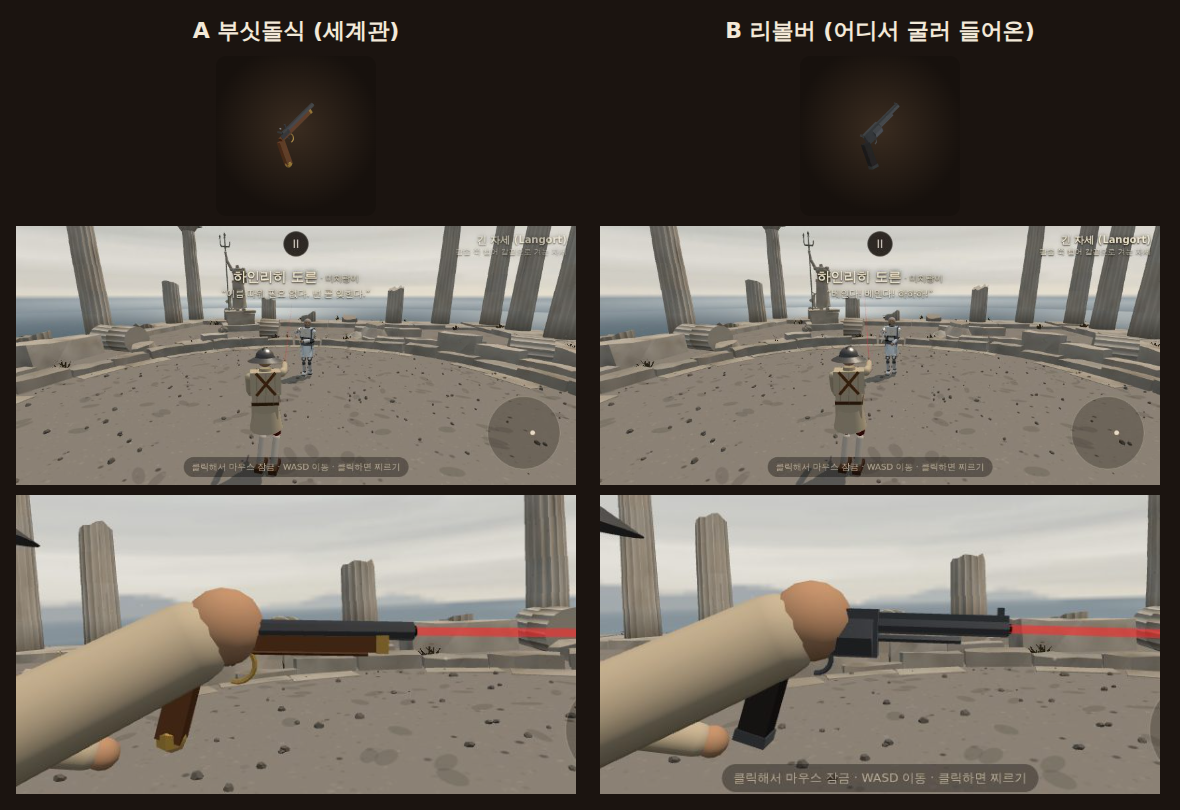
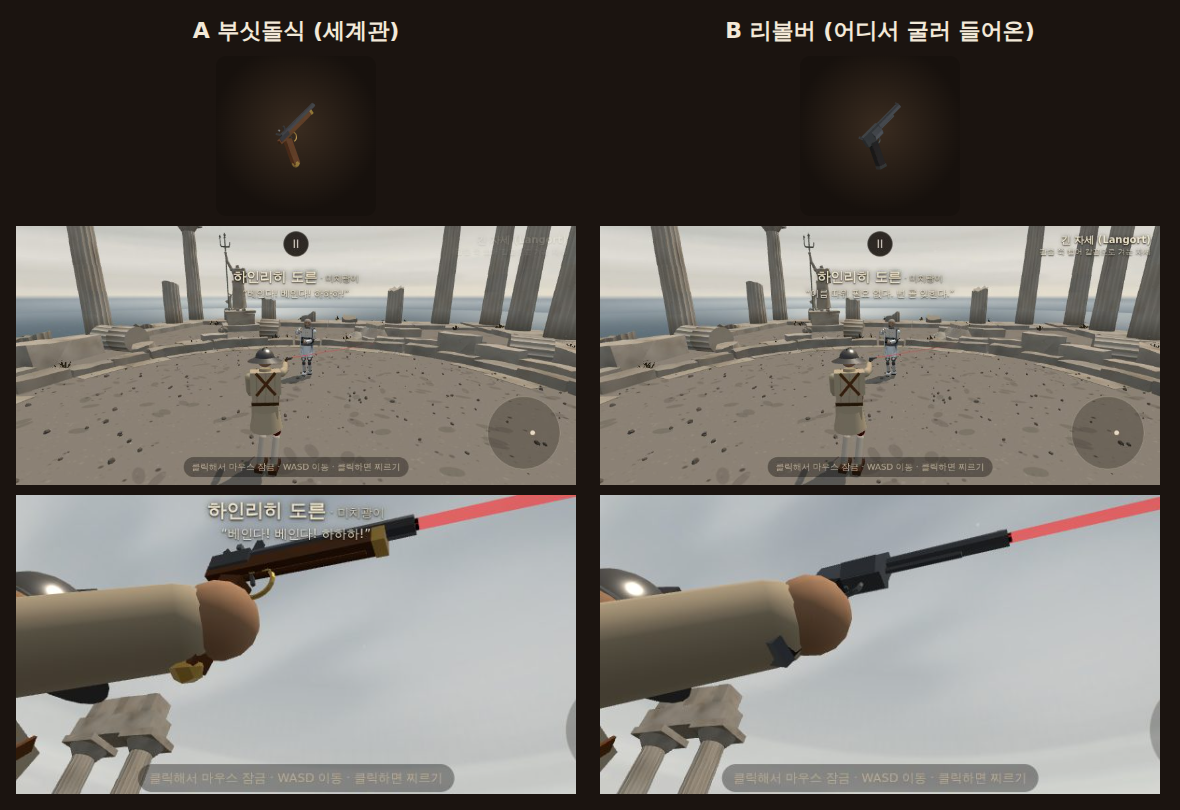
Revolver grip (owner: "hold the grip, barrel fully above the hand"): the fist holds the middle of the grip and the frame, cylinder and barrel sit 8 cm above it
- weapon_looks.js: PISTOL_GRIP centred on the hand, PISTOL_BORE_X -0.08; everything but the grip drawn on the bore axis
- weapons.js: body collider moved up to the bore axis (pose.x), muzzleX; twistScale 0.42 -> 0.25 (idle sway 1.6 deg)
- gun.js: muzzle() at (muzzleX, 0.20 m) for shots, laser and sounds; recoilUp 0.55 -> 0.2 N·s (a high bore flips the muzzle by itself; ~18 deg)
- fights12, hybrid fights12, live_battery, weapon_smoke unchanged; gun_dummy table unchanged; card and comparison images re-rendered

Claude-Session: https://claude.ai/code/session_013j34LYEUYoaeS5xUme2DTq

diff --git a/src/weapon_looks.js b/src/weapon_looks.js
@@ -1341,8 +1341,9 @@ export function breakWeaponLook(group, cutY, { material = 'steel' } = {}) {
 }
 
 // ═════════════════════════════════════════════════════════════
-//  권총 (??? 등급). 물리는 그대로다: 칼 축(+y)이 총신·발사 방향이고 총구는 손(원점)에서 0.20 m(bladePoint(1)).
-//  겉모습만 권총답게 — 손잡이가 총신에서 약 105° 꺾여 아래로 내려오고(주먹은 손잡이 윗부분을 쥔다), 방아쇠울·공이치기가 보인다.
+//  권총 (??? 등급). 칼 축(+y)이 발사 방향이다. 주먹(칼 원점)은 손잡이 가운데를 쥐고, 총신·약실·틀은 주먹 위로 완전히 올라온다
+//  (사장님: "손잡이를 잡고 총신은 손 완전히 위로") — 총신 축은 칼 축과 나란히 PISTOL_BORE_X 만큼 위(−x). 총구는 (PISTOL_BORE_X, 0.20 m):
+//  gun.js 가 발사·레이저를 여기서 낸다. 손잡이는 총신에서 105° 꺾여 아래로 내려오고, 방아쇠울·공이치기가 보인다.
 //  칼을 겨누는 자세에서 칼 몸체 −x 쪽이 위다(게임 화면으로 확인) → 가늠쇠·공이치기는 −x, 손잡이·방아쇠울은 +x.
 //  두 풍 (docs/handoff/pistol_look_v1.png) — 사장님 선택: B 리볼버. A 는 보관:
 //   'flintlock' — 세계관에 맞는 부싯돌식: 나무 몸통이 총신 밑을 받치고, 휜 나무 손잡이 끝에 놋쇠 마개, 긴 놋쇠 방아쇠울, 부싯돌 치기쇠
@@ -1350,17 +1351,24 @@ export function breakWeaponLook(group, cutY, { material = 'steel' } = {}) {
 //  로우폴리·평면 음영(설계 언어 3D 기본 모드), 난수 없음.
 // ═════════════════════════════════════════════════════════════
 // 손잡이 치수 — 물리(weapons.js pistol buildParts 의 손잡이 콜라이더·무게)와 그림이 같이 쓴다: 칼 몸체 (x, y) = from 에서
-//  총신(+y)과 deg 만큼 꺾인 방향으로 len 만큼 (끝에 마개)
-export const PISTOL_GRIP = { from: [0.018, -0.028], deg: 105, len: 0.105 };
+//  총신(+y)과 deg 만큼 꺾인 방향으로 len 만큼 (끝에 마개). 가운데가 주먹(원점)이다
+const _ga = (105 * Math.PI) / 180;
+export const PISTOL_GRIP = { deg: 105, len: 0.105, from: [(-Math.sin(_ga) * 0.105) / 2, (-Math.cos(_ga) * 0.105) / 2] };
+// 총신 축이 칼 축에서 떨어진 거리 (−x = 위, m): 약실 밑이 주먹 위로 올라오게
+export const PISTOL_BORE_X = -0.08;
 export const PISTOL_STYLE = { value: 'revolver' }; // 사장님이 고른 풍: B 현대식 리볼버 (A 부싯돌식은 보관 — 시안 비교 도구는 globalThis.__pistolStyle 로 바꿔 본다)
 export function drawPistol(group, style = globalThis.__pistolStyle ?? PISTOL_STYLE.value) {
   const flat = (color, o = {}) => new THREE.MeshStandardMaterial({ color, roughness: 0.6, metalness: 0, flatShading: true, ...o });
-  const add = (geo, mat, pos, rot) => {
+  // 손잡이 말고는 모두 총신 축 기준으로 그린다 (top 을 PISTOL_BORE_X 만큼 위로 올려 둔다)
+  const top = new THREE.Group();
+  top.position.x = PISTOL_BORE_X;
+  group.add(top);
+  const add = (geo, mat, pos, rot, parent = top) => {
     const m = new THREE.Mesh(geo, mat);
     m.position.set(...pos);
     if (rot) m.rotation.set(...rot);
     m.castShadow = true;
-    group.add(m);
+    parent.add(m);
     return m;
   };
   const UP = -1; // 위쪽 = −x
@@ -1369,7 +1377,7 @@ export function drawPistol(group, style = globalThis.__pistolStyle ?? PISTOL_STY
   const grip = (len, w, t, mat, deg, from) => {
     const a = (deg * Math.PI) / 180; // 총신(+y)과 이루는 각
     const dx = Math.sin(a), dy = Math.cos(a);
-    const g = add(new THREE.BoxGeometry(len, w, t), mat, [from[0] + (dx * len) / 2, from[1] + (dy * len) / 2, 0], [0, 0, Math.atan2(dy, dx)]);
+    const g = add(new THREE.BoxGeometry(len, w, t), mat, [from[0] + (dx * len) / 2, from[1] + (dy * len) / 2, 0], [0, 0, Math.atan2(dy, dx)], group);
     return { g, end: [from[0] + dx * len, from[1] + dy * len], dx, dy };
   };
   if (style === 'revolver') {
@@ -1386,11 +1394,11 @@ export function drawPistol(group, style = globalThis.__pistolStyle ?? PISTOL_STY
     add(new THREE.BoxGeometry(0.048, 0.09, 0.02), steel, [0.008, 0.028, 0]);
     // 공이치기 (뒤 위, 뒤로 젖힘) · 방아쇠울 · 방아쇠
     add(new THREE.BoxGeometry(0.02, 0.009, 0.007), steel, [UP * 0.017, -0.02, 0], [0, 0, 0.6]);
-    add(new THREE.TorusGeometry(0.015, 0.0028, 5, 10, Math.PI * 1.25), steel, [0.036, 0.01, 0], [0, 0, -Math.PI * 0.05]);
-    add(new THREE.BoxGeometry(0.014, 0.004, 0.004), steel, [0.03, 0.006, 0], [0, 0, 0.25]);
-    // 손잡이 (검은 고무, 110° — 리볼버는 더 뒤로 젖힌다)
+    add(new THREE.TorusGeometry(0.015, 0.0028, 5, 10, Math.PI * 1.25), steel, [0.036, 0.034, 0], [0, 0, -Math.PI * 0.05]);
+    add(new THREE.BoxGeometry(0.014, 0.004, 0.004), steel, [0.03, 0.03, 0], [0, 0, 0.25]);
+    // 손잡이 (검은 고무) — 주먹이 가운데를 쥔다
     const g = grip(PISTOL_GRIP.len, 0.03, 0.026, rubber, PISTOL_GRIP.deg, PISTOL_GRIP.from); // 손잡이 콜라이더와 같은 각·길이
-    add(new THREE.BoxGeometry(0.012, 0.034, 0.028), steel, [g.end[0], g.end[1], 0], [0, 0, Math.atan2(g.dy, g.dx)]); // 밑마개
+    add(new THREE.BoxGeometry(0.012, 0.034, 0.028), steel, [g.end[0], g.end[1], 0], [0, 0, Math.atan2(g.dy, g.dx)], group); // 밑마개
   } else {
     const iron = flat(0x3a3d44, { roughness: 0.5, metalness: 0.45, envMap: weaponEnv(), envMapIntensity: 0.7 });
     const wood = flat(0x6b4226, { roughness: 0.85 });
@@ -1408,10 +1416,10 @@ export function drawPistol(group, style = globalThis.__pistolStyle ?? PISTOL_STY
     add(new THREE.BoxGeometry(0.022, 0.008, 0.006), iron, [UP * 0.016, -0.008, 0], [0, 0, 0.7]);
     add(new THREE.BoxGeometry(0.006, 0.006, 0.007), flat(0x8a8f96), [UP * 0.026, 0.004, 0]);
     // 긴 놋쇠 방아쇠울 · 방아쇠
-    add(new THREE.TorusGeometry(0.019, 0.0028, 5, 12, Math.PI * 1.3), brass, [0.037, 0.018, 0], [0, 0, -Math.PI * 0.1]);
-    add(new THREE.BoxGeometry(0.016, 0.004, 0.004), iron, [0.031, 0.012, 0], [0, 0, 0.3]);
+    add(new THREE.TorusGeometry(0.019, 0.0028, 5, 12, Math.PI * 1.3), brass, [0.037, 0.04, 0], [0, 0, -Math.PI * 0.1]);
+    add(new THREE.BoxGeometry(0.016, 0.004, 0.004), iron, [0.031, 0.034, 0], [0, 0, 0.3]);
     // 휜 나무 손잡이 (105°) + 놋쇠 밑마개
     const g = grip(PISTOL_GRIP.len, 0.028, 0.024, wood, PISTOL_GRIP.deg, PISTOL_GRIP.from);
-    add(new THREE.SphereGeometry(0.017, 6, 4), brass, [g.end[0], g.end[1], 0]);
+    add(new THREE.SphereGeometry(0.017, 6, 4), brass, [g.end[0], g.end[1], 0], null, group);
   }
 }

diff --git a/src/weapons.js b/src/weapons.js
@@ -12,7 +12,7 @@
 //  실측이 없어 물리적으로 그럴듯하게 추정/창작한 값. 아래 각 무기 설명에 표기해 둔다.
 // ─────────────────────────────────────────────────────────────
 import * as THREE from 'three';
-import { swordKit, metalMat, weaponEnv, hiddenParts, drawTreeBranch, drawRubberChicken, drawFrozenTuna, drawPistol, PISTOL_GRIP } from './weapon_looks.js';
+import { swordKit, metalMat, weaponEnv, hiddenParts, drawTreeBranch, drawRubberChicken, drawFrozenTuna, drawPistol, PISTOL_GRIP, PISTOL_BORE_X } from './weapon_looks.js';
 
 // 재질별 되튐(반발 계수). 칼끼리 부딪히면 곱해진다(Multiply 규칙) → 강철끼리 0.7² 정도,
 //  고무 대 강철처럼 하나가 낮으면 거의 튕기지 않는다(고무 닭이 칼에 그냥 맞고 만다).
@@ -993,8 +993,9 @@ const pistol = finalizeSpec('pistol', {
   tier: 'mystery',
   gun: true, // gun.js: 찌르기 = 발사, 장전, AI 는 도망 다니며 쏜다
   // 손잡이가 칼 축에서 비켜 있으면 물리 엔진의 주관성축 순서가 바뀌어 fighter.js 가 칼날 축 관성(pI.y)으로 잡는 값이 25배 커지고
-  //  날 세우기 힘이 과해져 몸체가 발산했다(잰 값: 비트는 배율 10.7). 손잡이를 축 위에 둔 같은 몸체의 값(0.42)을 그대로 준다
-  controlOverrides: { twistScale: 0.42 },
+  //  날 세우기 힘이 과해져 몸체가 발산했다(잰 값: 비트는 배율 10.7). 직접 준다 — 총신이 주먹 위로 올라온 지금 몸체에서
+  //  가만히 있을 때 떨림(평균·최대): 0.25 → 1.6°·2.8°, 0.42 → 2.9°·13.7°, 0.8 → 19°·46°
+  controlOverrides: { twistScale: 0.25 },
   moveMul: 1.2, // 걷는 최고 속도 ×1.2 (도망 다니며 쏘라고)
   fragility: 0, // 부서지지 않는다
   edged: false, mBlunt: 0, // 근접전 불가: 몸을 쳐도 상처·멍이 없다
@@ -1008,14 +1009,16 @@ const pistol = finalizeSpec('pistol', {
     const dx = Math.sin(a), dy = Math.cos(a);
     const hx = G.len / 2, hy = 0.014, hz = 0.012; // 손잡이 상자: 긴 쪽이 부품 x 축
     const gm = 0.35;
-    // 무게도 손잡이 제자리에 (총 무게중심이 칼 축에서 약 3 cm 손잡이 쪽 아래, 손에서 7 cm 앞 — 권총답게 손 쪽에 무게가 있다)
+    // 무게도 제자리에: 손잡이는 주먹(원점) 둘레, 몸통은 주먹 위 총신 축 — 총 무게중심이 주먹 조금 위·앞
     //  손잡이 자체 관성은 방향 없이(가장 큰 축 값으로 고르게) 준다 — 상자 그대로의 관성(긴 축만 작다)이면 가만히 있을 때 떨림이
     //  평균 2.4° → 4.6° 로 커졌다(잰 값). 무게·무게중심 자리는 그대로다
     const gIso = (gm * ((2 * hx) ** 2 + (2 * hy) ** 2)) / 12;
     const gI = { x: gIso, y: gIso, z: gIso };
     const cap = sphereInertia(0.05, 0.015); // 손잡이 끝 마개
-    const L = this.bladeLength;
-    // 몸통(기관부·총신) 콜라이더는 보이는 길이 그대로. 다만 짧고 가벼운 몸체는 손목 제어가 못 잡아 가만히 있어도 총구가 떨렸다
+    // 몸통(틀·약실·총신): 총신 축(PISTOL_BORE_X, 주먹 위)을 따라 공이치기 뒤(y −0.03)부터 총구(y 0.20)까지
+    const L = this.hiltLength + this.bladeLength + 0.03;
+    const yMid = (this.hiltLength + this.bladeLength - 0.03) / 2;
+    // 몸통 콜라이더는 보이는 길이 그대로. 다만 짧고 가벼운 몸체는 손목 제어가 못 잡아 가만히 있어도 총구가 떨렸다
     //  → 회전 관성·무게중심만 inertiaLength 몸체 값을 준다 (무게 0.55 kg 는 그대로). 손잡이 무게가 축에서 비켜 있으면 더 떨려서
     //  (손잡이 제자리 무게: 0.2 → 평균 5.4°, 0.25 → 2.4°) 0.25 로 둔다
     const IL = Math.max(L, this.inertiaLength ?? 0.25);
@@ -1024,10 +1027,11 @@ const pistol = finalizeSpec('pistol', {
     return [
       partTuple(['box', hx, hy, hz], G.from[1] + dy * hx, gm, 0, 0, 0, 0x6b4226, false, { x: G.from[0] + dx * hx, rotZ: Math.atan2(dy, dx), I: gI }),
       partTuple(['ball', 0.015], G.from[1] + dy * G.len, 0.05, 0, cap.Ie, cap.It, 0xb08d3c, false, { x: G.from[0] + dx * G.len }),
-      partTuple(['box', 0.016, L / 2, 0.013], this.hiltLength + L / 2, 0.55, comY, frame.Ie, frame.It, 0x2c2f35, false),
+      partTuple(['box', 0.022, L / 2, 0.012], yMid, 0.55, comY, frame.Ie, frame.It, 0x2c2f35, false, { x: PISTOL_BORE_X + 0.006 }),
     ];
   },
 
+  muzzleX: PISTOL_BORE_X, // 총구가 칼 축에서 이만큼 위(−x) — gun.js 가 발사·레이저를 여기서 낸다 (총신이 주먹 위로 올라와 있다)
   thumbScale: 0.6, // 카드 그림: 권총은 실제로 짧으니 칸을 가득 채우지 않는다 (weapon_thumbs 가 이 비율로 작게 둔다)
   decorate(group) {
     drawPistol(group);

diff --git a/src/gun.js b/src/gun.js
@@ -22,7 +22,7 @@ export const GUN = {
   aiFirst: 1.5, // 초: AI 는 판이 열리고 이만큼 지나서야 첫 발을 쏜다
   maxWait: 0.6, // 초: 찌르기를 시작하고 이 안에 팔이 안 뻗어지면 그냥 그때 총구 방향으로 쏜다
   recoilBack: 0.5, // N·s: 쏠 때 총을 뒤로 미는 충격
-  recoilUp: 0.55, // N·s: 총구를 위로 차 올리는 충격 (총구에 건다 → 총구가 들린다). 손잡이 무게가 제자리에 있는 짧은 권총에서 총구가 약 15° 들렸다 0.5초에 제자리
+  recoilUp: 0.2, // N·s: 총구를 위로 차 올리는 충격 (총구에 건다). 총신이 주먹 위에 있는 리볼버에서 총구가 약 18° 들렸다 0.8초에 제자리
   spread: 1, // 도: 서서 쏠 때 총알이 총신(레이저)에서 벗어나는 최대 각 — 레이저를 믿고 겨눌 수 있게 작게
   spreadMove: 3, // 도: 걷는 최고 속도로 달리며 쏘면 이만큼 더 벗어난다
 };
@@ -33,6 +33,13 @@ const _o = new THREE.Vector3();
 const _d = new THREE.Vector3();
 const _q = new THREE.Quaternion();
 const _l = new THREE.Vector3();
+
+/** 총구 (월드): 칼 몸체 (spec.muzzleX, 손잡이+칼날 길이, 0) — 총신이 주먹 위로 올라와 있어 칼 축에서 비켜 있다 */
+function muzzle(f, out) {
+  const r = f.sword.rotation();
+  const p = f.sword.translation();
+  return out.set(f.weapon.muzzleX ?? 0, f.weaponCfg.hiltLength + f.weaponCfg.bladeLength, 0).applyQuaternion(new THREE.Quaternion(r.x, r.y, r.z, r.w)).add(new THREE.Vector3(p.x, p.y, p.z));
+}
 
 function state(f) {
   return (f.gun ??= { cool: 0, pending: -1, shots: 0, hits: 0, seed: (0x2545f491 ^ Math.imul(f.index + 1, 0x9e3779b9)) >>> 0 });
@@ -84,7 +91,7 @@ function fire(f, world, combat) {
   const u = _l.set(1, 0, 0).applyQuaternion(_q); // 총신에 수직인 두 축
   const v = new THREE.Vector3().crossVectors(_d, u);
   _d.multiplyScalar(Math.cos(a)).addScaledVector(u, Math.sin(a) * Math.cos(phi)).addScaledVector(v, Math.sin(a) * Math.sin(phi)).normalize();
-  f.bladePoint(1, _o); // 총구
+  muzzle(f, _o); // 총구
   // AI 조준: 찌르기 동작만으로는 총신이 상대 가슴에서 15~23° 벗어난 채 쏜다(3 m 에서 가슴 폭은 ±4° — 거의 다 빗나갔다, 디렉터 12:38).
   //  AI 는 난이도 실력(level.skill: 쉬움 0.4 · 보통 0.7 · 어려움 0.85)만큼 총신을 상대 가슴 쪽으로 바로잡아 쏜다: 남는 오차 = (1 − (0.5 + 0.5·skill)).
   //  사람은 바로잡지 않는다 — 레이저를 보고 제 손으로 겨눈다
@@ -222,13 +229,14 @@ function updateLaser(f, g, world, combat) {
   const r = f.sword.rotation();
   _q.set(r.x, r.y, r.z, r.w);
   const dir = _l.set(0, 1, 0).applyQuaternion(_q);
-  const o = f.bladePoint(1, new THREE.Vector3());
+  const o = muzzle(f, new THREE.Vector3());
   const hit = castRay(world, o, dir, (h) => combat.info.get(h)?.fighter !== f);
   const dist = hit ? hit.toi : GUN.range;
   const y0 = f.weaponCfg.hiltLength + f.weaponCfg.bladeLength; // 총구 (칼 기준)
-  L.beam.position.set(0, y0, 0);
+  const mx = f.weapon.muzzleX ?? 0;
+  L.beam.position.set(mx, y0, 0);
   L.beam.scale.set(1, Math.max(0.01, dist), 1);
-  L.dot.position.set(0, y0 + dist, 0);
+  L.dot.position.set(mx, y0 + dist, 0);
   L.dot.visible = !!hit;
   L.mat.opacity = g.cool > 0 ? 0.18 : 0.6;
 }
@@ -243,7 +251,7 @@ function castRay(world, o, d, pred) {
 }
 
 function sound(kind, f) {
-  const p = f.bladePoint(1, new THREE.Vector3());
+  const p = muzzle(f, new THREE.Vector3());
   const hook = GUN_HOOKS[kind];
   if (hook) return hook(f, p);
   const snd = globalThis.window?.game?.sound;

diff --git a/docs/weapons_balance_status.md b/docs/weapons_balance_status.md
@@ -58,6 +58,12 @@
 - **AI 끼리 (롱소드 상대 12판)**: 83% (55~95%) — AI 가 자동으로 겨눈 값이라 사람의 레이저 조준은 이 숫자에 안 들어 있다. 권총 없는 판은 fights12 바이트 동일. 브라우저: 레이저 보임, 한 발 쏨, 콘솔 에러 0.
 
 
+### 리볼버 쥐는 법 (사장님: "이상하게 쥐고 있네. 손잡이를 잡고 총신은 손 완전히 위로 올라와야지")
+- 주먹(칼 원점)이 손잡이 가운데를 쥐고, 틀·약실·총신은 주먹 위로 — 총신 축이 칼 축과 나란히 8 cm 위(`PISTOL_BORE_X` −0.08, 칼 몸체 −x). 그림(weapon_looks.js)과 물리(weapons.js 몸통 콜라이더 `pose.x`)를 같이 옮겼다.
+- 발사·레이저는 그림 속 총구에서: gun.js `muzzle()` = 칼 몸체 (`spec.muzzleX`, 0.20 m) — 방향은 그대로 칼 축(+y)과 나란하다.
+- 전 → 후: 무게중심 (축에서 3.2 cm 아래, 손에서 8.3 cm) → (축에서 4.0 cm 위 = 주먹 위, 손에서 5.4 cm), 손 기준 관성 0.0217 → 0.0090. 날 세우기 배율(`twistScale`) 0.42 → 0.25 (떨림 평균·최대 2.9°·13.7° → 1.6°·2.8°). 반동 위 충격 0.55 → 0.2 N·s — 총신이 손보다 높아 뒤로 미는 충격만으로도 총구가 들린다(실제 권총의 총구 들림), 약 18°, 0.8초에 제자리.
+- 확인: fights12·hybrid fights12·live_battery 바이트 동일, weapon_smoke 그대로, gun_dummy 세기 표 그대로, 탭 2발, AI 명중 4~12/12, AI 권총 대 롱소드 12판 12승(자동 조준 AI 값 — 사람 조준은 레이저로), 브라우저 콘솔 0. 카드 그림·시안 그림 다시 찍음.
+
 ### 권총은 B 현대식 리볼버 (사장님 선택, 디렉터 12:58)
 - `PISTOL_STYLE` 기본을 'revolver' 로. A 부싯돌식은 코드에 보관(시안 도구 `window.__pistolStyle='flintlock'` 으로 볼 수 있다).
 - 리볼버 손잡이 그림 각을 손잡이 콜라이더와 똑같이(105°) 맞췄다(전엔 그림만 108°). 여섯 모 약실이 옆에서 보이고, 짧은 총신·공이치기·방아쇠울·아래로 꺾인 손잡이.
